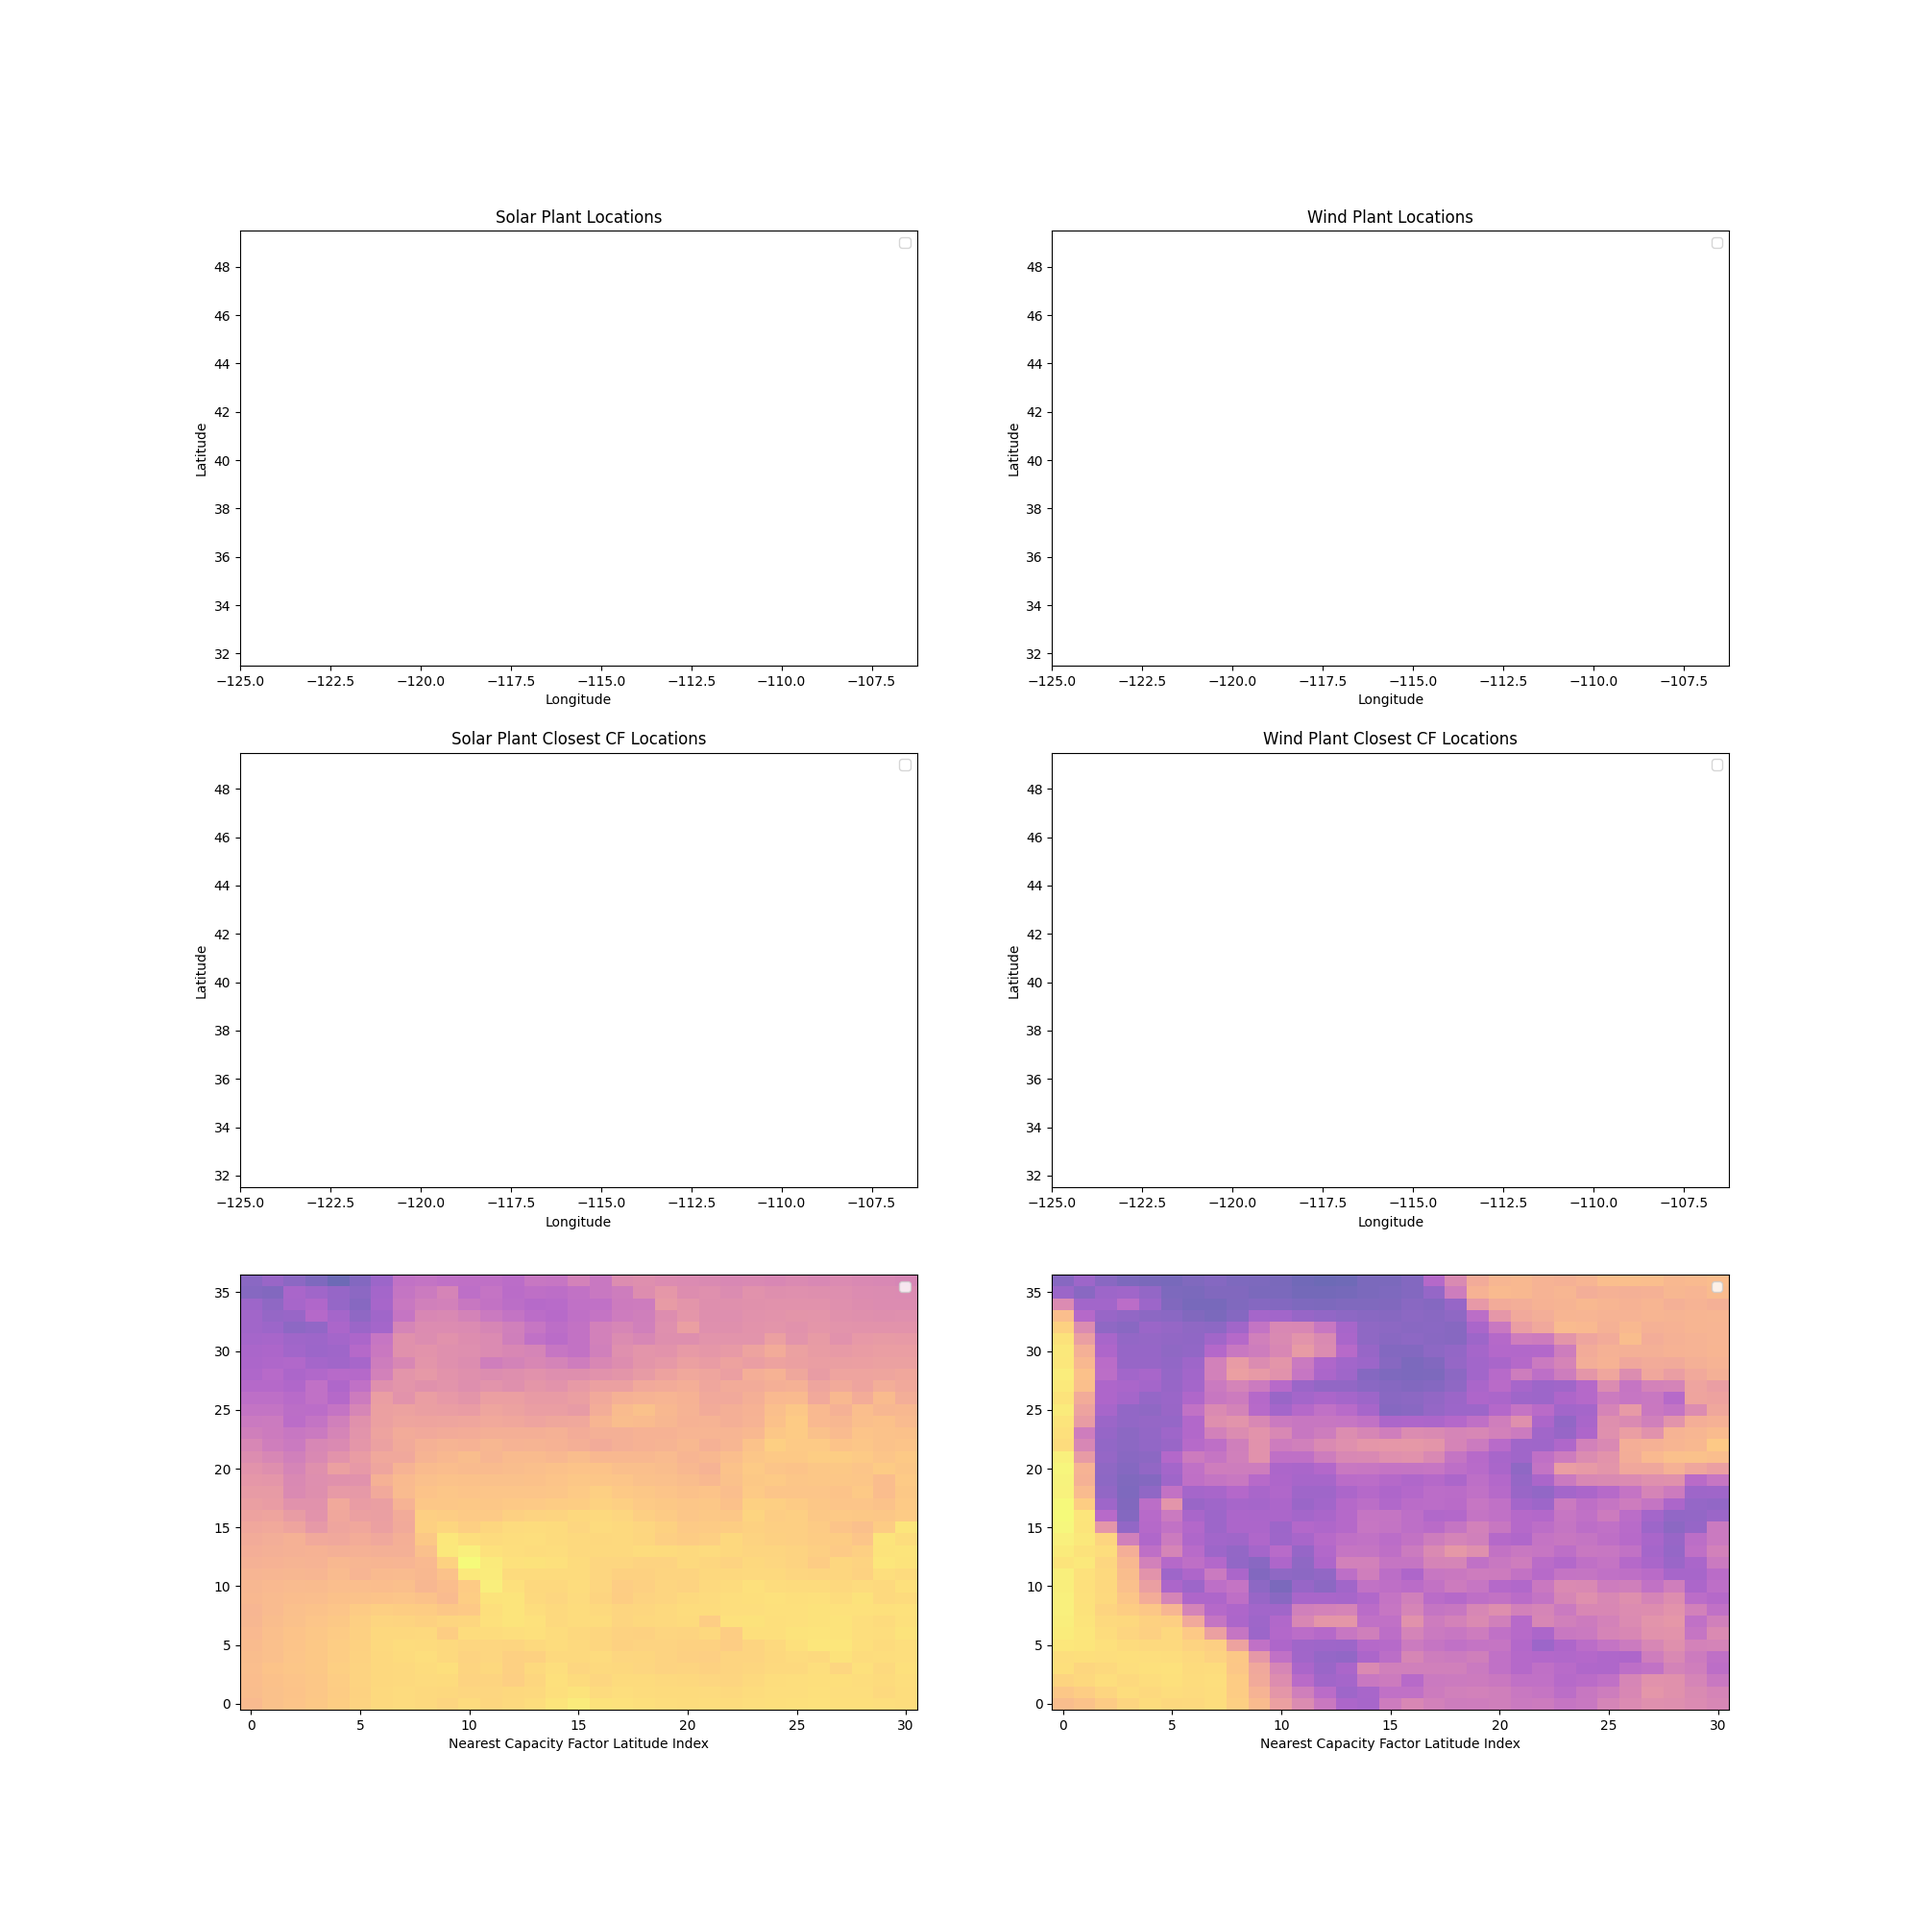
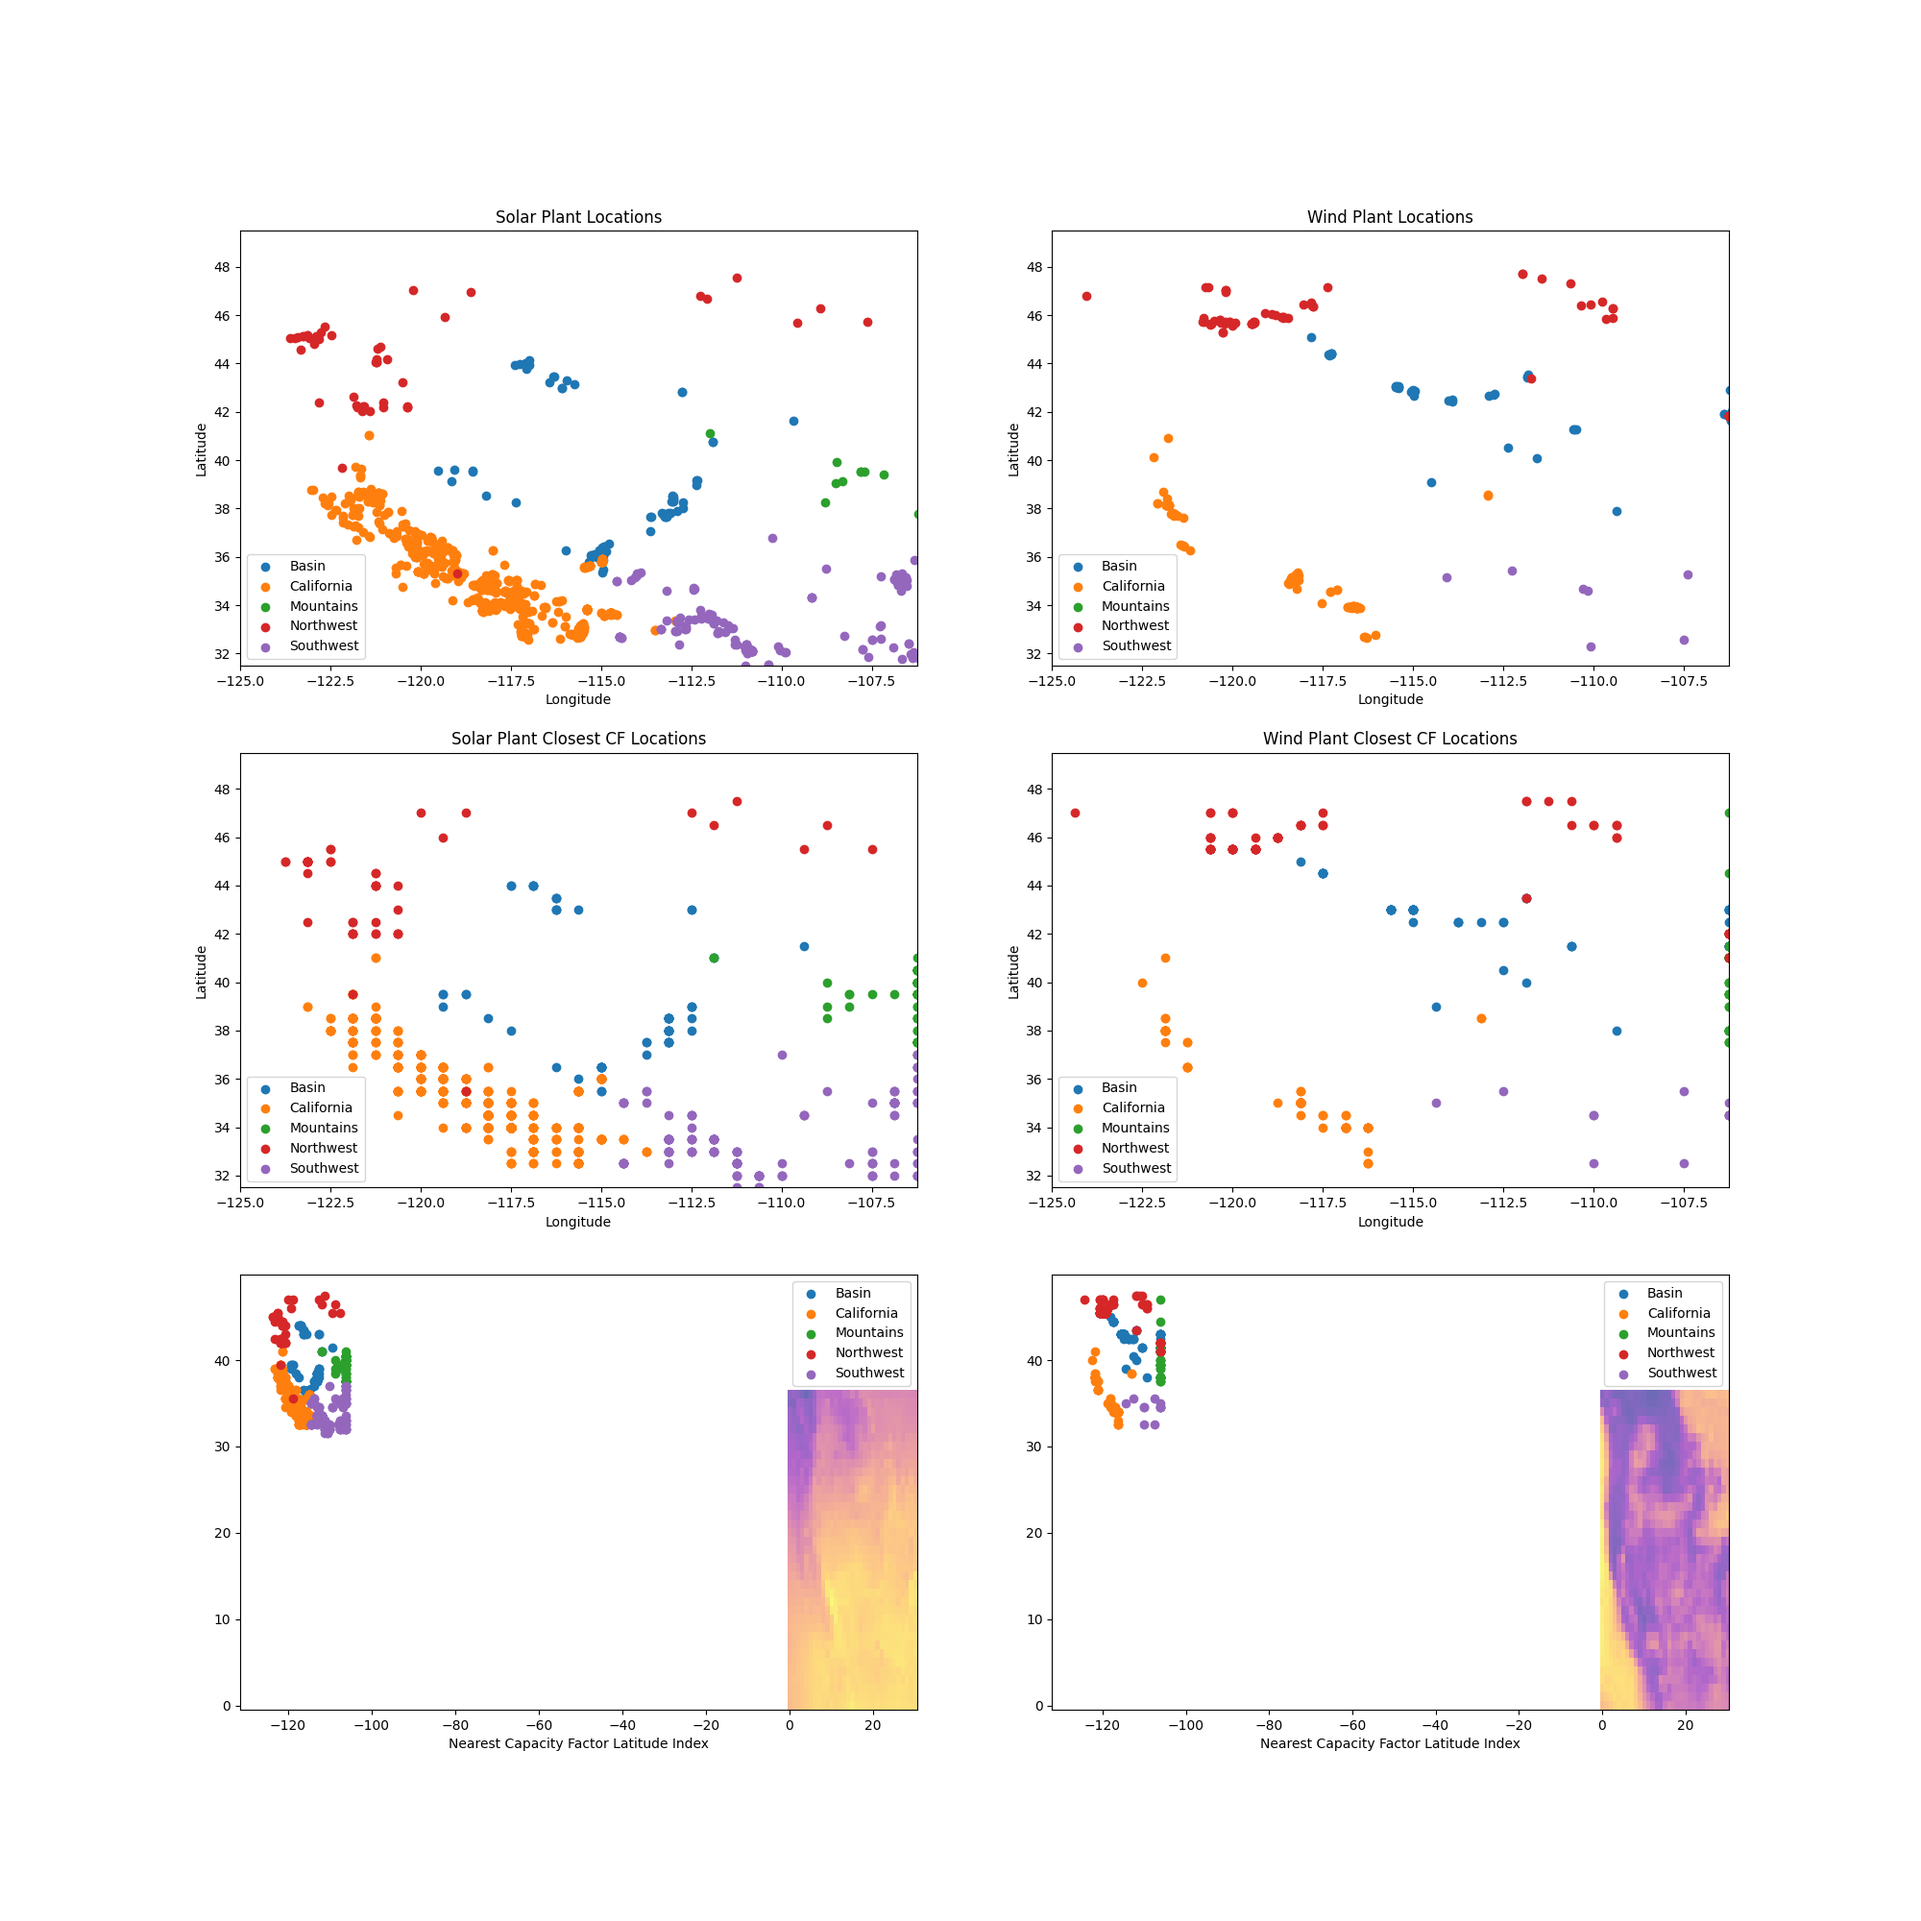
5x Renewables.

diff --git a/src/fleet_compositions.py b/src/fleet_compositions.py
@@ -122,8 +122,8 @@ def main():
         solar_idx_ax.scatter(powGen_lons[solar['lon idx']],powGen_lats[solar['lat idx']])
         wind_idx_ax.scatter(powGen_lons[wind['lon idx']],powGen_lats[wind['lat idx']])
 
-        solar_cf_ax.scatter(powGen_lons[solar['lon idx']],powGen_lats[solar['lat idx']])
-        wind_cf_ax.scatter(powGen_lons[wind['lon idx']],powGen_lats[wind['lat idx']])
+        solar_cf_ax.scatter(solar['lon idx'],solar['lat idx'])
+        wind_cf_ax.scatter(wind['lon idx'],wind['lat idx'])
 
     for ax in [solar_ax, wind_ax, solar_idx_ax, wind_idx_ax, solar_cf_ax, wind_cf_ax]:
         ax.legend(regions)

diff --git a/src/elcc_map.py b/src/elcc_map.py
@@ -101,7 +101,7 @@ def main():
 
     # universal parameters
     parameters['year'] = 2016
-    parameters['region'] = 'Basin'
+    parameters['region'] = 'Southwest'
     parameters['iterations'] = 5000
     parameters['renewable multiplier'] = 5
 
